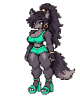
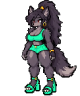
F15: replace WOLF animation with the approved STOVE N v2 (outline, 4-px grid); previous WOLF kept as wolf_prev
145 frames / 24 fps, exact 4:1 fixed-transform derivative, Layout A apparent size and floor preserved, hashes verified.
Mapping, progression, dialogue and other dancers unchanged.

diff --git a/js/frag/F15/club.js b/js/frag/F15/club.js
@@ -136,7 +136,8 @@
    for(const d of C().dancers())geo.x[d]=offX+L.slots[C().handleOf(d)].cx*cr.width;
    return true;
   }
-  const frameFor=handle=>Math.floor((performance.now()-t0)/(1000/L.fps))%manifest.dancers[handle].frames;
+  const sheetKey=h=>h==='wolf'?T().WOLF_SHEET:h;   // WOLF has two recoverable sheets: the approved v2 replacement and the previous one
+  const frameFor=handle=>Math.floor((performance.now()-t0)/(1000/L.fps))%manifest.dancers[sheetKey(handle)].frames;
   function draw(){
    const W=geo.W,H=geo.H,dpr=geo.dpr,cw=Math.round(W*dpr),ch=Math.round(H*dpr);
    if(over.width!==cw||over.height!==ch){over.width=cw;over.height=ch;}
@@ -154,11 +155,12 @@
     octx.lineWidth=(sel?2:1)*dpr;octx.strokeStyle=sel?'#5fe3ff':'rgba(164,159,192,0.45)';octx.stroke();
    }
    for(const d of order){
-    const h=C().handleOf(d),m=manifest.dancers[h],img=sheets[h],f=frameFor(h);
-    const dw=m.cell[0]*3*geo.k,dh=m.cell[1]*3*geo.k,dx=geo.x[d]-m.anchor_in_cell_px[0]*3*geo.k,dy=geo.feetY-dh;
+    const h=C().handleOf(d),m=manifest.dancers[sheetKey(h)],img=sheets[sheetKey(h)],f=frameFor(h);
+    // one FIXED transform per sequence: integer downsample (div), Layout A apparent size (scale_mul), feet on the shared line (anchor y)
+    const kk=geo.k*(m.scale_mul||1),dv=m.div||3,dw=m.cell[0]*dv*kk,dh=m.cell[1]*dv*kk,dx=geo.x[d]-m.anchor_in_cell_px[0]*dv*kk,dy=geo.feetY-m.anchor_in_cell_px[1]*dv*kk;
     if(img){octx.drawImage(img,(f%m.cols)*m.cell[0],Math.floor(f/m.cols)*m.cell[1],m.cell[0],m.cell[1],Math.round(dx*dpr),Math.round(dy*dpr),Math.round(dw*dpr),Math.round(dh*dpr));}
     else{octx.fillStyle='rgba(164,159,192,.25)';octx.fillRect(Math.round(dx*dpr),Math.round(dy*dpr),Math.round(dw*dpr),Math.round(dh*dpr));}
-    geo.boxes[d]={x:dx,y:dy,w:dw,h:dh,frame:f,handle:h};
+    geo.boxes[d]={x:dx,y:dy,w:dw,h:dh,feet:dy+m.anchor_in_cell_px[1]*dv*kk,frame:f,handle:h};
     // name tag under the feet: always says who is who (and lets Ube judge the provisional mapping on sight)
     octx.font=`${Math.round(7*dpr)}px ${PSTART}`;octx.textAlign='center';octx.textBaseline='top';
     octx.lineWidth=3*dpr;octx.strokeStyle='#07060f';octx.strokeText(names[d],geo.x[d]*dpr,(geo.feetY+5)*dpr);
@@ -186,10 +188,10 @@
   // ---- loading (reliable: every failure is visible and nothing blocks the throw/attribution path) -----------------------------
   const loadImg=u=>new Promise((ok,bad)=>{const i=new Image();i.onload=()=>ok(i);i.onerror=()=>bad(new Error(u));i.src=u;});
   const ready=fetch(SHEET_DIR+'manifest.json',{cache:'no-cache'}).then(r=>{if(!r.ok)throw new Error('manifest '+r.status);return r.json();}).then(m=>{
-   manifest=m;return Promise.all(Object.keys(m.dancers).map(h=>loadImg(SHEET_DIR+m.dancers[h].file).then(i=>{sheets[h]=i;})));
+   manifest=m;return Promise.all(T().HANDLES.map(sheetKey).map(k=>loadImg(SHEET_DIR+m.dancers[k].file).then(i=>{sheets[k]=i;})));
   }).then(()=>{status.loaded=true;if(!disposed)note.textContent=`SUPPORTING ${names[selectedLocal]}. TAP A NAME TO SUPPORT SOMEONE ELSE.`;}).catch(e=>{
    status.failed=String(e.message||e);console.error('F15 dancers failed to load',e);
-   if(!manifest)manifest={dancers:Object.fromEntries(T().HANDLES.map(h=>[h,{frames:1,cell:[155,200],cols:1,anchor_in_cell_px:[77,200]}]))};
+   if(!manifest)manifest={dancers:Object.fromEntries(T().HANDLES.map(h=>[sheetKey(h),{frames:1,cell:[155,200],cols:1,anchor_in_cell_px:[77,200]}]))};
    if(!disposed)note.textContent='DANCER ART FAILED TO LOAD. YOU CAN STILL SUPPORT AND THROW.';
   });
 

diff --git a/js/frag/F15/tunables.js b/js/frag/F15/tunables.js
@@ -33,6 +33,9 @@
    }
   },
   HANDLES:['wolf','dragon','pink'],
+  // WOLF animation: 'wolf' = the STOVE N v2 replacement (thin outline, 4-px grid, cleaned gaps; creator-approved); 'wolf_prev' = the previous
+  // frozen WOLF (146 frames), kept byte-identical and recoverable. Her character design and the mapping are unchanged either way.
+  WOLF_SHEET:'wolf',
 
   // ---- THRESHOLDS — IMPLEMENTATION TUNING — PENDING REVIEW ---------------------------------------------------------
   // Cumulative dollars spent ON ONE DANCER (every bill thrown at her, floor/missed bills included) that make scene L1..L4

diff --git a/tools/f15/build_derivatives.py b/tools/f15/build_derivatives.py
@@ -55,7 +55,64 @@ def extract_from_git(repo, dest):
     return os.path.join(dest, PKG)
 
 
-def build(masters, out_dir):
+# ---- WOLF v2 (STOVE N: thin outline, 4-px grid, cleaned gaps; creator-approved replacement) ---------------------------------------
+V2_DIV = 4                      # the art is drawn on a 4-px grid, so 4:1 is the exact-integer area downsample (3:1 would alias it)
+V2_HEIGHT_REF = 600             # the previous WOLF's occupied height in master px: Layout A's apparent size is preserved with scale_mul
+def build_wolf_v2(pkg, out_dir, manifest):
+    """Package: CANDIDATE_PENDING_UBE_REVIEW_v2_outline_4px_LAUNCH_PACKAGE (145 frames, 688x688 masters, translation (96,48)).
+    Verifies the per-frame manifest + sequence hash (HASH_METHOD.md), then one FIXED transform for the whole sequence:
+    crop = union of occupied pixels grown to the 4-px grid (origin 0,0), anchor x = union centre (344), baseline = union bottom.
+    Frame order, count (145), timing (24 fps) and every pixel are kept; no de-duplication, retiming, alpha edit or clip repair."""
+    meta = json.load(open(os.path.join(pkg, "animation.json"), encoding="utf-8"))
+    fdir = os.path.join(pkg, "master_688_RGBA")
+    names = sorted(f for f in os.listdir(fdir) if f.endswith(".png"))
+    raw = [(f, open(os.path.join(fdir, f), "rb").read()) for f in names]
+    mf = "".join(f + chr(9) + hashlib.sha256(d).hexdigest() + chr(10) for f, d in raw).encode("utf-8")
+    got = hashlib.sha256(mf).hexdigest()
+    want = meta["sequence_hashes"]["master_688_RGBA"]["sha256"]
+    if got != want:
+        sys.exit("wolf v2: master sequence hash mismatch %s != %s" % (got, want))
+    n = len(raw)
+    assert n == meta["frame_count"] == 145 and meta["fps"]["numerator"] == 24 and meta["fps"]["denominator"] == 1
+    ux0 = uy0 = 10 ** 6; ux1 = uy1 = 0
+    for f, d in raw:
+        im = Image.open(io.BytesIO(d)); assert im.mode == "RGBA" and im.size == (688, 688)
+        ys, xs = np.nonzero(np.array(im)[:, :, 3] > 0)
+        ux0, ux1, uy0, uy1 = min(ux0, xs.min()), max(ux1, xs.max() + 1), min(uy0, ys.min()), max(uy1, ys.max() + 1)
+    ux0, uy0, ux1, uy1 = int(ux0), int(uy0), int(ux1), int(uy1)
+    x0, x1 = (ux0 // V2_DIV) * V2_DIV, -(-ux1 // V2_DIV) * V2_DIV
+    y0, y1 = (uy0 // V2_DIV) * V2_DIV, -(-uy1 // V2_DIV) * V2_DIV
+    cw, ch = (x1 - x0) // V2_DIV, (y1 - y0) // V2_DIV
+    anchor_x = (ux0 + ux1) / 2.0
+    rows = -(-n // COLS)
+    sheet = Image.new("RGBA", (COLS * cw, rows * ch), (0, 0, 0, 0))
+    for i, (f, d) in enumerate(raw):
+        im = Image.open(io.BytesIO(d))
+        a = np.array(im)[:, :, 3].copy(); a[y0:y1, x0:x1] = 0
+        assert not a.any(), "wolf v2 frame %d has pixels outside the crop box" % i
+        cell = im.crop((x0, y0, x1, y1)).convert("RGBa").resize((cw, ch), Image.BOX).convert("RGBA")
+        sheet.paste(cell, ((i % COLS) * cw, (i // COLS) * ch))
+        if i == 0:
+            sc = 96.0 / (uy1 - uy0)
+            pw, ph = max(1, round((ux1 - ux0) * sc)), max(1, round((uy1 - uy0) * sc))
+            small = im.crop((ux0, uy0, ux1, uy1)).convert("RGBa").resize((pw, ph), Image.BOX).convert("RGBA")
+            port = Image.new("RGBA", (PORT_W, PORT_H), (0, 0, 0, 0))
+            port.paste(small, (max(0, int(round(PORT_W / 2 - (anchor_x - ux0) * sc))), PORT_H - ph))
+            port.save(os.path.join(out_dir, "..", "portraits", "wolf.png"), optimize=True)
+    path = os.path.join(out_dir, "wolf.png"); sheet.save(path, optimize=True)
+    manifest["dancers"]["wolf"] = {
+        "file": "wolf.png", "frames": n, "fps": 24, "div": V2_DIV, "duration_s": n / 24.0, "cell": [cw, ch], "cols": COLS, "rows": rows,
+        "sheet_px": list(sheet.size), "master_crop_xywh": [x0, y0, x1 - x0, y1 - y0],
+        "occupied_union_master_xyxy": [int(ux0), int(uy0), int(ux1), int(uy1)],
+        "anchor_in_cell_px": [(anchor_x - x0) / V2_DIV, (uy1 - y0) / V2_DIV],   # feet = union bottom (fixed for the whole sequence)
+        "scale_mul": V2_HEIGHT_REF / float(uy1 - uy0),                            # Layout A apparent height of the previous WOLF
+        "master_sequence_sha256": got, "package_status": meta["status"], "source_video_sha256": meta["source_provenance"]["video_sha256"],
+        "download_bytes": os.path.getsize(path), "decoded_bytes": sheet.size[0] * sheet.size[1] * 4,
+        "sheet_sha256": hashlib.sha256(open(path, "rb").read()).hexdigest(),
+    }
+
+
+def build(masters, out_dir, wolf_v2=None):
     os.makedirs(out_dir, exist_ok=True)
     manifest = {
         "status": "F15 RUNTIME DERIVATIVES - Layout A accepted by Ube (size + softer animation rendering); masters unchanged",
@@ -108,15 +165,16 @@ def build(masters, out_dir):
                 ox = int(round(PORT_W / 2 - (ANCHOR_X - px0) * PORT_SCALE))
                 port.paste(small, (max(0, ox), PORT_H - ph))
                 os.makedirs(os.path.join(out_dir, "..", "portraits"), exist_ok=True)
-                port.save(os.path.join(out_dir, "..", "portraits", name + ".png"), optimize=True)
-        path = os.path.join(out_dir, name + ".png")
+                port.save(os.path.join(out_dir, "..", "portraits", ("wolf_prev" if name == "wolf" else name) + ".png"), optimize=True)
+        key = "wolf_prev" if name == "wolf" else name   # the previous WOLF stays recoverable; the v2 replacement takes the "wolf" slot
+        path = os.path.join(out_dir, key + ".png")
         sheet.save(path, optimize=True)
         extra = {}
         if name == "wolf":   # A A B B pairs must survive derivation as exact byte-equal cell pairs
             extra["wolf_AABB_pairs_intact"] = all(cells[2 * k] == cells[2 * k + 1] for k in range(n // 2)) and \
                 all(cells[2 * k + 1] != cells[2 * k + 2] for k in range(n // 2 - 1))
-        manifest["dancers"][name] = {
-            "file": name + ".png", "frames": n, "fps": 24,
+        manifest["dancers"][key] = {
+            "file": key + ".png", "frames": n, "fps": 24, "div": DIV, "scale_mul": 1,
             "duration_s": n / 24.0, "cell": [cw, ch], "cols": COLS, "rows": rows,
             "sheet_px": list(sheet.size),
             "master_crop_xywh": [x0, y0, x1 - x0, y1 - y0],
@@ -127,6 +185,8 @@ def build(masters, out_dir):
             "sheet_sha256": hashlib.sha256(open(path, "rb").read()).hexdigest(),
             **extra,
         }
+    if wolf_v2:
+        build_wolf_v2(wolf_v2, out_dir, manifest)
     t = manifest["dancers"].values()
     manifest["totals"] = {"download_bytes": sum(d["download_bytes"] for d in t),
                           "decoded_bytes": sum(d["decoded_bytes"] for d in t)}
@@ -139,13 +199,14 @@ if __name__ == "__main__":
     g = ap.add_mutually_exclusive_group(required=True)
     g.add_argument("--masters", help="extracted f15-launch-trio-masters directory")
     g.add_argument("--from-git", help="git repo containing the art commit")
+    ap.add_argument("--wolf-v2", help="extracted STOVE N v2 outline 4px LAUNCH_PACKAGE directory (replaces WOLF; the previous WOLF is kept as wolf_prev)")
     ap.add_argument("--out", default=os.path.join(os.path.dirname(os.path.abspath(__file__)), "..", "..", "assets", "f15", "dancers"))
     a = ap.parse_args()
     if a.from_git:
         with tempfile.TemporaryDirectory() as tmp:
-            m = build(extract_from_git(a.from_git, tmp), a.out)
+            m = build(extract_from_git(a.from_git, tmp), a.out, a.wolf_v2)
     else:
-        m = build(a.masters, a.out)
+        m = build(a.masters, a.out, a.wolf_v2)
     print(json.dumps(m["totals"]))
     for k, d in m["dancers"].items():
         print(k, d["cell"], d["sheet_px"], d["download_bytes"], d["decoded_bytes"], d.get("wolf_AABB_pairs_intact", ""))

diff --git a/docs/engineering/F15_VELVET_ROTATION_CANDIDATE.md b/docs/engineering/F15_VELVET_ROTATION_CANDIDATE.md
@@ -71,3 +71,15 @@ No flag was promoted (`js/if1/flag_defaults.js` untouched), no schema version as
 ```
 RA_PLAYWRIGHT_PATH=<playwright-core dir> RA_CHROMIUM_PATH=<chrome.exe> node tools/tests/f15/browser-check.mjs --shots <dir>
 ```
+
+## WOLF replacement (STOVE N v2) — creator-approved after the first candidate commit
+
+Ube approved the **STOVE N v2** WOLF (thin black outline, 4-px grid, cleaned transparency gaps) in chat; the package metadata itself still reads
+"CANDIDATE — PENDING UBE REVIEW", so that approval is recorded here, not in the package. Replaces **only** the WOLF animation: character design, the
+other dancers, mapping, progression and dialogue are unchanged. (An earlier attachment, the FROZEN zip, held the *old* WOLF — identical sequence hash — and was not used.)
+
[1 lines of base64/hex data omitted]
+* Transform (fixed for the whole sequence, built by `tools/f15/build_derivatives.py --wolf-v2 <package dir>`): crop = occupied union (x 96–592, y 48–633) grown to the art's 4-px grid; **exact 4:1** area downsample (the art is on a 4-px grid, so the old 3:1 would alias it); anchor x = union centre (344, same as the other dancers); feet = union bottom; `scale_mul` 600/585 so the apparent height equals the previous WOLF's under Layout A. No frame duplication assumed (the old A A B B pairs do not apply), no retiming, no alpha edit, no clip repair. Sheet 1488×1911, cell 124×147.
+* Recoverable: the previous WOLF sheet stays byte-identical as `assets/f15/dancers/wolf_prev.png` (and `portraits/wolf_prev.png`); set `RAF15Tunables.WOLF_SHEET='wolf_prev'` to switch back. Originals untouched.
+* Payload vs memory (active set, WOLF v2 + DRAGON + PINK): **6,908,644 B download (6.6 MiB)**, **42,761,232 B decoded (40.8 MiB)** (v2 WOLF alone: 2,228,791 B / 11,374,272 B; the old set was 6,707,435 B / 50,730,960 B). `wolf_prev.png` (2,027,582 B) ships but is only fetched if selected.
+* Checks: playback advances (145-frame loop), all 145 cells non-empty with partial alpha preserved; 40 of 145 frames touch the cell edge — this is the package's own source-canvas contact (its audit reports `added_master_clipping:false`) and is **inherited, not repaired**; no pixel lies outside the crop (asserted). Real-browser at 360/390/430: all dancers inside the stage, feet on the shared line, headroom ≥ 6 px (WOLF unchanged: 6.0 px at 360, 6.0 at 390, 27.8 at 430), UI clear; 58/58 widths+throws and 56/56 scenes checks. Screenshots: `club_*_start.png`, `club_390_hit_roxy.png` (WOLF v2 visible). The package's own audit lists 7 pale-sample losses and "unresolved visual defects" — carried as is.
